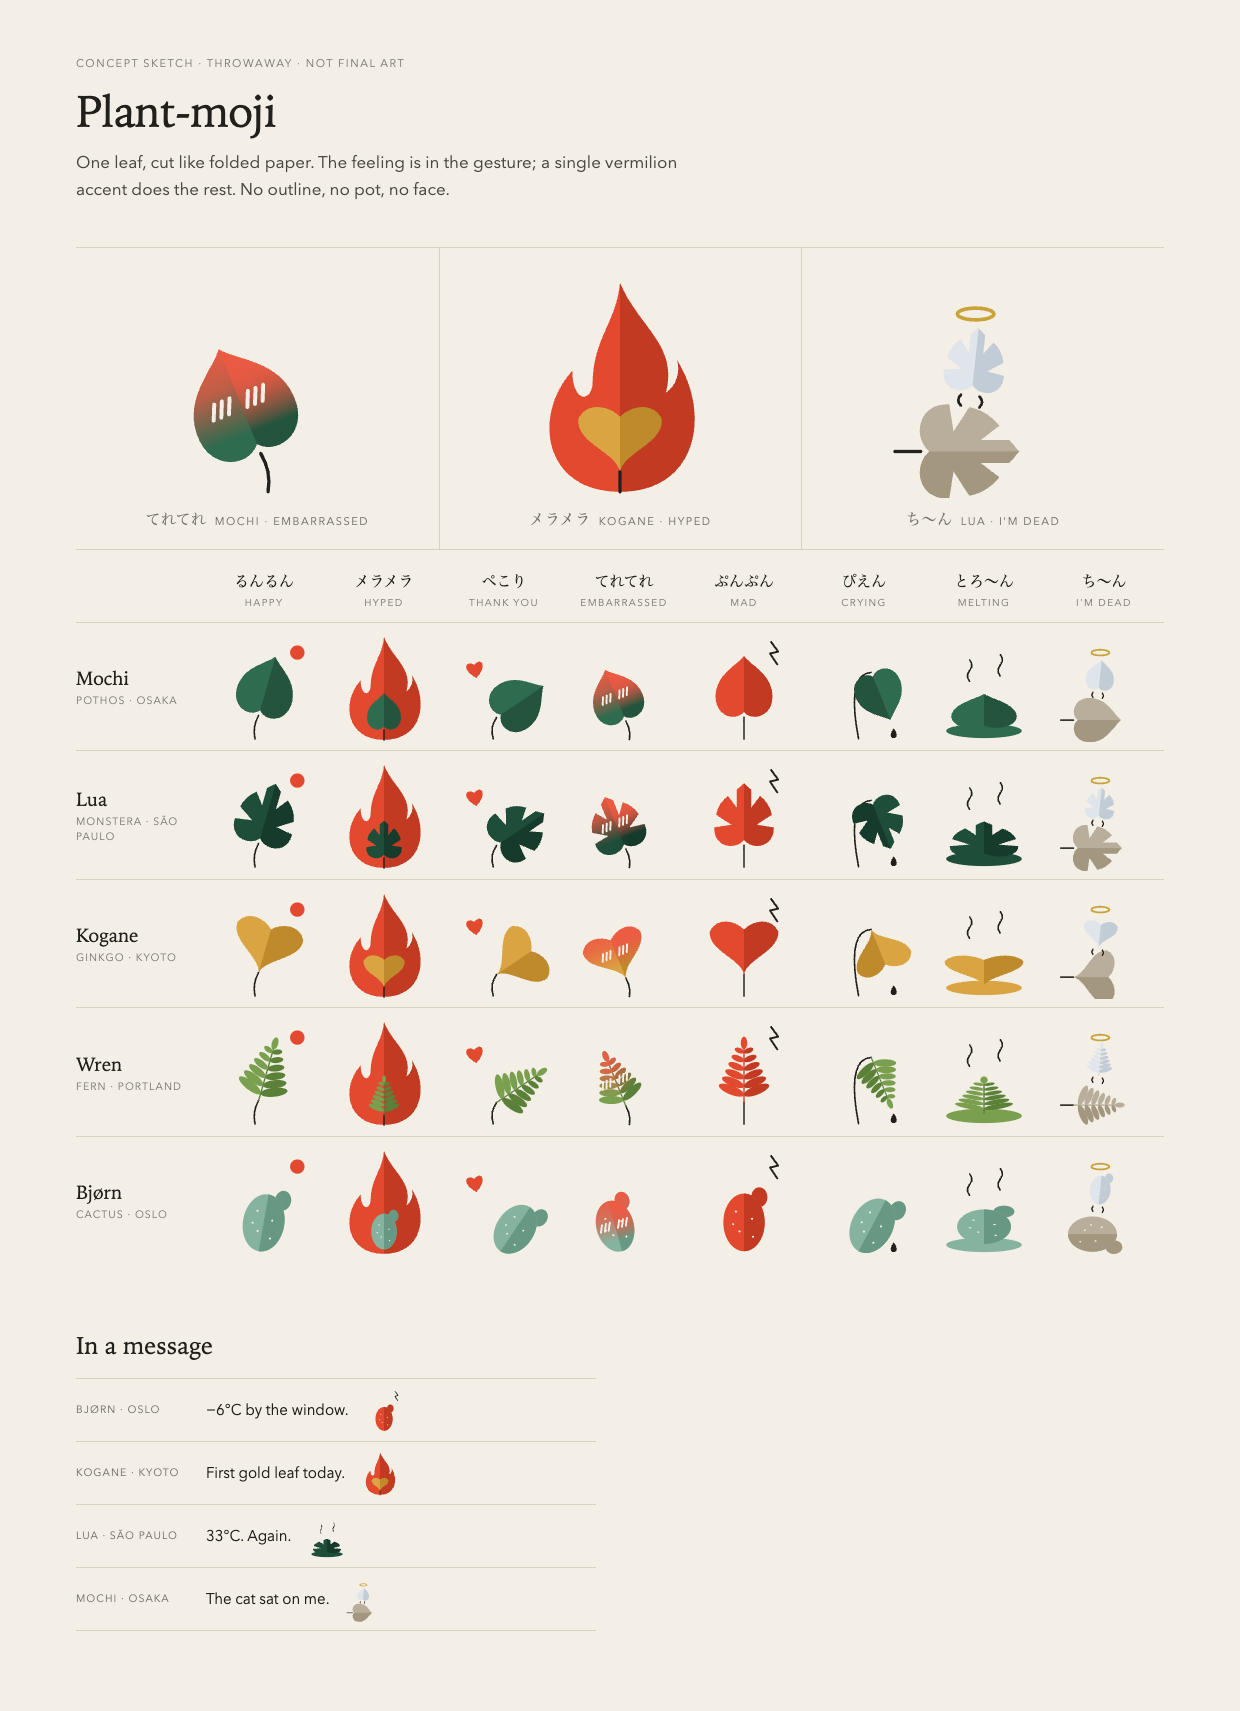
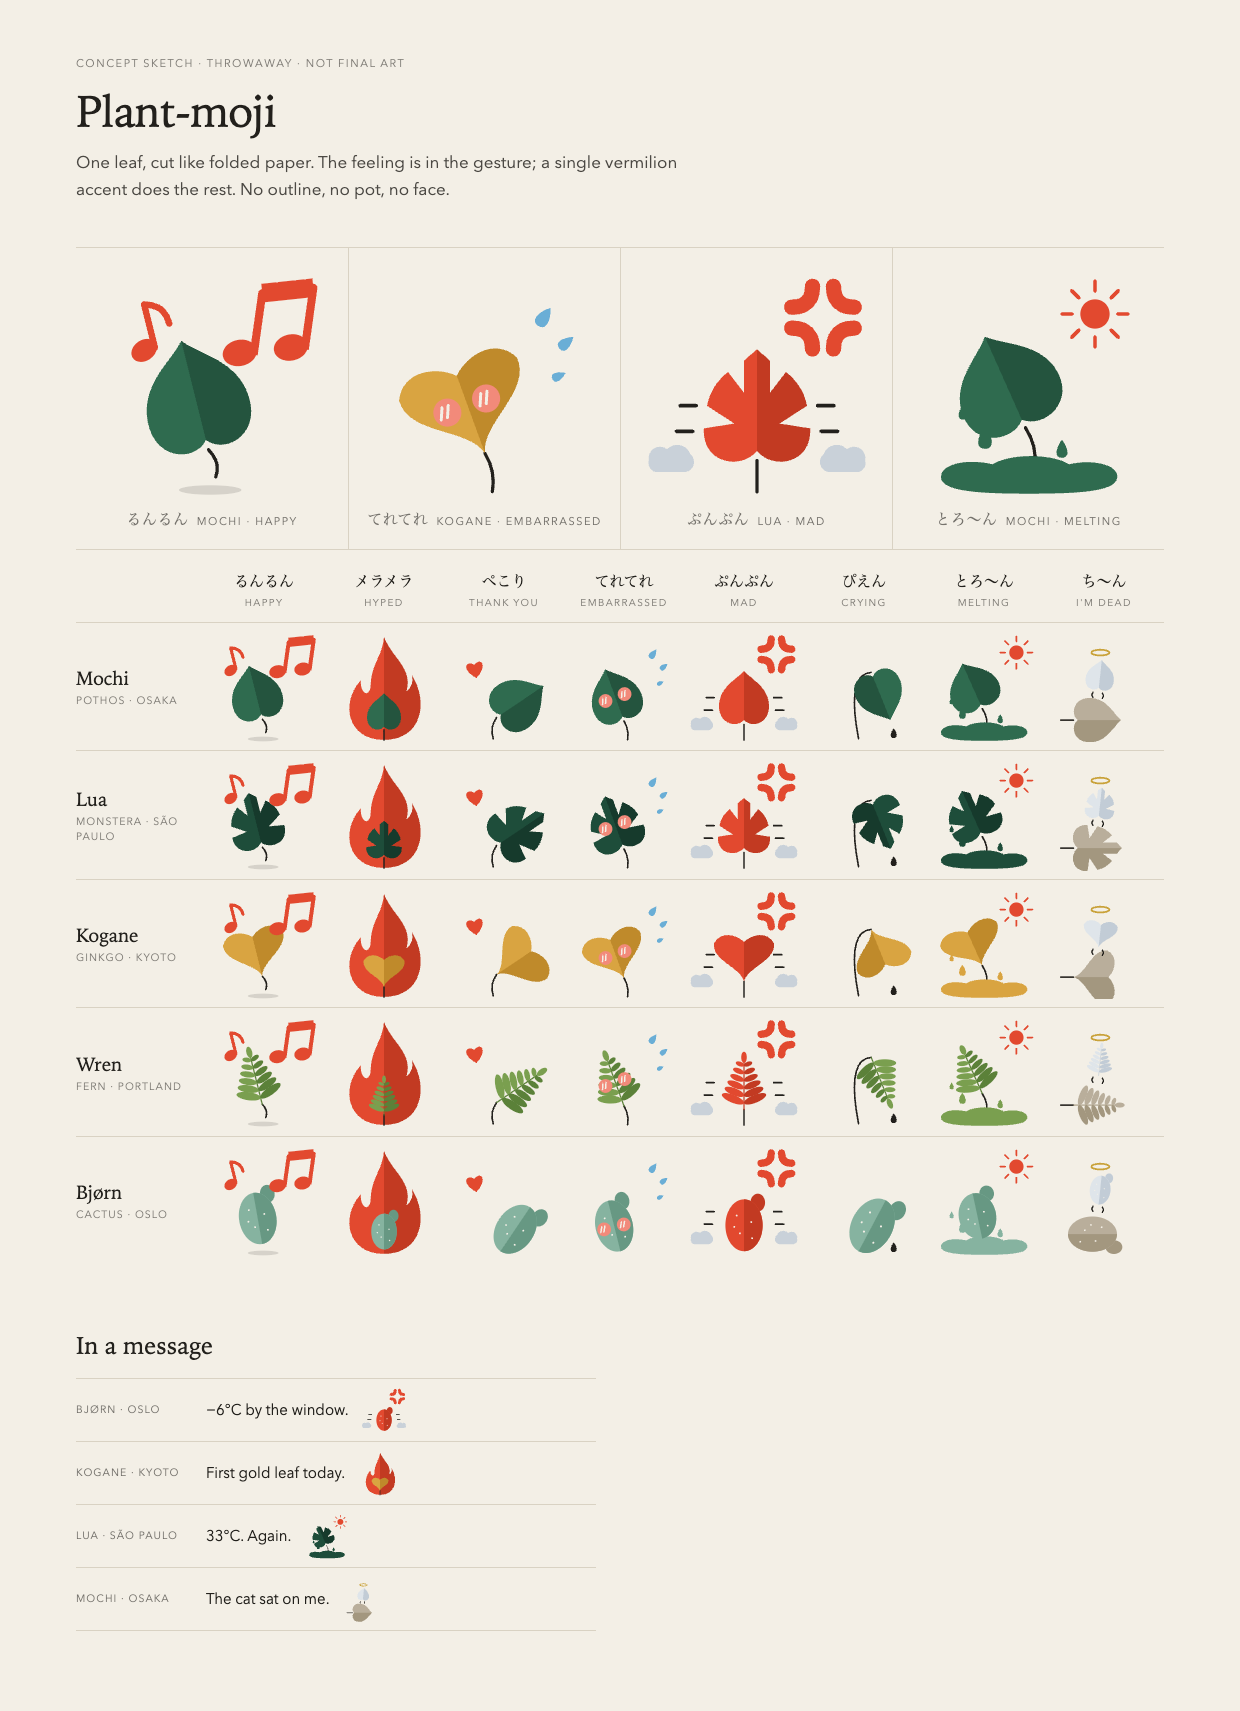
feat(mockups): redraw happy, embarrassed, mad and melting moji
Happy hums with music notes, embarrassed has pink cheeks and flying
sweat, mad gets the anger mark with huffs, and melting drips into a
puddle under a hot sun.

Claude-Session: https://claude.ai/code/session_018BJkmKwSHGXgfyQunbc3B2

diff --git a/mockups/plant-moji/plant-moji-leaf.html b/mockups/plant-moji/plant-moji-leaf.html
@@ -14,7 +14,7 @@
   h1 { font-family:"Iowan Old Style", "Hiragino Mincho ProN", Georgia, serif; font-weight:400; font-size:44px; margin:10px 0 8px; letter-spacing:-.01em; }
   h2 { font-family:"Iowan Old Style", "Hiragino Mincho ProN", Georgia, serif; font-weight:400; font-size:24px; margin:64px 0 6px; }
   p.lead { font-size:17px; margin:0; max-width:620px; line-height:1.6; opacity:.8; }
-  .hero { display:grid; grid-template-columns:repeat(3,1fr); gap:0; margin:44px 0 20px; border-top:1px solid var(--line); border-bottom:1px solid var(--line); }
+  .hero { display:grid; grid-template-columns:repeat(4,1fr); gap:0; margin:44px 0 20px; border-top:1px solid var(--line); border-bottom:1px solid var(--line); }
   .hero > div { padding:22px 0 18px; text-align:center; }
   .hero > div + div { border-left:1px solid var(--line); }
   .hero svg { width:220px; height:auto; }
@@ -76,39 +76,48 @@ const rays = (cx, cy, r1, r2, from, to, step) => { let d = '';
   for (let a = from; a <= to; a += step) { const r = a * Math.PI / 180;
     d += `M${(cx + r1 * Math.cos(r)).toFixed(1)} ${(cy + r1 * Math.sin(r)).toFixed(1)} L${(cx + r2 * Math.cos(r)).toFixed(1)} ${(cy + r2 * Math.sin(r)).toFixed(1)} `; }
   return hair(d, ACC, 2); };
-const sun = `<circle cx="97" cy="24" r="8" fill="${ACC}"/>`;
+const sun = `<circle cx="96" cy="24" r="8" fill="${ACC}"/>` + rays(96, 24, 12.5, 18, 0, 315, 45);
+const beamed = (x, y, s, r) => `<g ${T(x, y, s, r)}><path d="M-5 8 V-12 L11 -16 V4" fill="none" stroke="${ACC}" stroke-width="2.6" stroke-linejoin="round"/><path d="M-5 -12 L11 -16" stroke="${ACC}" stroke-width="6"/>` +
+  `<ellipse cx="-9.5" cy="8" rx="5.5" ry="4.2" fill="${ACC}" transform="rotate(-20 -9.5 8)"/><ellipse cx="6.5" cy="4" rx="5.5" ry="4.2" fill="${ACC}" transform="rotate(-20 6.5 4)"/></g>`;
+const single = (x, y, s, r) => `<g ${T(x, y, s, r)}>${hair('M4.5 6 V-12 q8 2 8 10', ACC, 2.6)}<ellipse cx="0" cy="6" rx="5.5" ry="4.2" fill="${ACC}" transform="rotate(-20 0 6)"/></g>`;
+const shadow = `<ellipse cx="59" cy="120" rx="17" ry="2.6" fill="${INK}" opacity=".14"/>`;
+const anger = (x, y, s) => `<g ${T(x, y, s)}>${hair('M-9 -3 q6 0 6 -6 M3 -9 q0 6 6 6 M9 3 q-6 0 -6 6 M-3 9 q0 -6 -6 -6', ACC, 4.4)}</g>`;
+const puff = (x, y, f) => `<path transform="translate(${x} ${y}) scale(${1.25 * f} 1.25)" d="M0 0 a5 5 0 0 1 8 -5 a6 6 0 0 1 10 2 a4.5 4.5 0 0 1 -2 8 h-13 a4 4 0 0 1 -3 -5Z" fill="#c9d1d9"/>`;
+const tremble = hair('M27 74 h-9 M25 88 h-9 M93 74 h9 M95 88 h9', INK, 2);
+const water = (x, y, s, r) => `<path ${T(x, y, s, r)} d="M0 -11 C 8 0 8 9 0 9 C -8 9 -8 0 0 -11Z" fill="#6aaed6"/>`;
+const blushOn = `<circle cx="-13" cy="-31" r="8.5" fill="#f28a7a"/><circle cx="12" cy="-31" r="8.5" fill="#f28a7a"/>` +
+  hair('M-15 -35 l-3 7 M-11 -35 l-3 7 M10 -35 l-3 7 M14 -35 l-3 7', '#f3efe6', 1.8);
+const BLOB = 'M12 113 C 12 105 28 103 40 106 C 50 100 72 100 82 106 C 94 103 110 106 108 114 C 106 121 86 122 60 122 C 34 122 12 121 12 113Z';
 const heart = (x, y, s) => `<path ${T(x, y, s, -10)} d="M0 8 C -15 -3 -8 -14 0 -6 C 8 -14 15 -3 0 8Z" fill="${ACC}"/>`;
 const dropD = 'M0 -11 C 8 0 8 9 0 9 C -8 9 -8 0 0 -11Z';
 const dropInk = (x, y, s) => `<path ${T(x, y, s)} d="${dropD}" fill="${INK}"/>`;
-const dropLine = (x, y, s) => `<g ${T(x, y, s, 14)}>${hair(dropD, INK, 2.4)}</g>`;
-const bolt = hair('M90 12 l8 11 l-9 2 l8 12', INK, 2.2);
-const heat = (x, y) => `<g transform="translate(${x} ${y})">${hair('M0 0 q-5 -6 0 -12 q5 -6 0 -12')}</g>`;
 const FLAME = 'M60 121 C 18 121 12 79 34 55 C 34 71 43 73 45 63 C 45 37 58 29 60 7 C 70 31 92 41 85 67 C 91 63 93 55 91 49 C 110 79 102 121 60 121Z';
 const flame = `<path d="${FLAME}" fill="#e2492f"/><path d="${FLAME}" fill="#c23a22" clip-path="url(#fh)"/>`;
-const cheeks = hair('M-15 -38 l-4 9 M-10 -38 l-4 9 M-5 -38 l-4 9 M7 -38 l-4 9 M12 -38 l-4 9 M17 -38 l-4 9', '#f3efe6', 2.4);
 // the leaf's own pale ghost rising from the body, with a halo
 const spirit = shape => `<g ${T(54, 66, .5, 6)}>${SHAPES[shape]('#dfe5ea', '#c2ccd6')}</g>` +
   `<ellipse cx="56" cy="24" rx="10" ry="3.2" fill="none" stroke="#c9a23a" stroke-width="2"/>` + hair('M48 68 q-3 3 0 6 M58 69 q3 3 0 6', INK, 1.5);
 
 const RED = ['#e2492f', '#c23a22'], DUST = ['#b9ae9b', '#a3977f'];
 const POSE = {
-  happy:  { ax: 54, ay: 94, rot: 16, stalk: 'M50 120 Q47 106 54 94', front: sun, rigid: { rot: 10 } },
+  happy:  { ax: 58, ay: 98, rot: -14, sc: .9, stalk: 'M62 113 Q65 105 58 98', back: shadow, front: beamed(93, 34, 1.7, 8) + single(21, 36, 1.35, -14), rigid: { rot: -10, ay: 110 } },
   hyped:  { ax: 60, ay: 110, sc: .6, rot: 0, stalk: 'M60 121 V110', back: flame, front: '', rigid: { sc: .62, ay: 116 } },
   thanks: { ax: 52, ay: 96, rot: 56, sc: .92, stalk: 'M48 120 Q44 106 52 96', front: heart(28, 44, 1.05), rigid: { rot: 34, ax: 56 } },
-  shy:    { ax: 62, ay: 100, rot: -22, sc: .9, stalk: 'M66 121 Q68 110 62 100', flush: true, inner: cheeks, front: '', rigid: { rot: -16, ax: 58 } },
-  mad:    { ax: 60, ay: 96, rot: 0, tone: RED, stalk: 'M60 120 V96', front: bolt, rigid: {} },
+  shy:    { ax: 60, ay: 100, rot: -20, sc: .9, stalk: 'M64 121 Q66 110 60 100', inner: blushOn, front: water(92, 26, .6, 35) + water(104, 40, .5, 50) + water(100, 58, .4, 65), rigid: { rot: -14, ax: 56 } },
+  mad:    { ax: 60, ay: 104, rot: 0, sc: .88, tone: RED, stalk: 'M60 121 V104', front: tremble + puff(1, 104, 1) + puff(119, 104, -1) + anger(96, 26, 1.9), rigid: { sc: .9 } },
   sad:    { ax: 68, ay: 46, rot: 158, sc: .84, stalk: 'M54 120 Q40 48 68 46', front: dropInk(93, 114, .55), rigid: { rot: 28, ax: 54, sc: 1 } },
-  melt:   { ax: 60, ay: 108, rot: 0, sc: 1.15, sy: .56, pool: true, front: heat(44, 56) + heat(78, 50), rigid: { sc: 1.3, sy: .6, ay: 110 } },
+  melt:   { ax: 58, ay: 86, rot: -24, sc: .9, sy: .8, melt: true, stalk: 'M62 112 Q66 98 58 86', front: sun, rigid: { ay: 104, rot: -12 } },
   dead:   { ax: 26, ay: 99, rot: 90, sc: .78, tone: DUST, stalk: 'M12 99 H26', front: spirit, rigid: { ax: 20, ay: 99, sc: .85 } },
 };
 function moji(shape, tone, emo) {
   const rigid = shape === 'cactus';
   const p = rigid ? { ...POSE[emo], ay: 118, stalk: null, ...POSE[emo].rigid } : POSE[emo];
   const [a, b] = p.tone || tone, sc = p.sc || 1;
-  const pool = p.pool ? `<ellipse cx="60" cy="111" rx="42" ry="8" fill="${a}"/>` : '';
+  // melting: the base of the leaf dissolves into a puddle of its own colour, with drips running off
+  const fall = (x, y, s) => `<path ${T(x, y, s)} d="M0 -11 C 8 0 8 9 0 9 C -8 9 -8 0 0 -11Z" fill="${a}"/>`;
+  const pool = p.melt ? `<path d="${BLOB}" fill="${a}"/>${fall(36, 92, .62)}${fall(78, 98, .5)}${fall(24, 78, .4)}` : '';
   const stalk = p.stalk ? hair(p.stalk) : '';
   const front = typeof p.front === 'function' ? p.front(shape) : p.front;
-  return svg(`${p.back || ''}${pool}${stalk}<g ${T(p.ax, p.ay, sc, p.rot, p.sy || sc)}>${SHAPES[shape](a, b)}${p.flush ? SHAPES[shape]('url(#flush)', 'url(#flush)') : ''}${p.inner || ''}</g>${front}`);
+  return svg(`${p.back || ''}${stalk}${pool}<g ${T(p.ax, p.ay, sc, p.rot, p.sy || sc)}>${SHAPES[shape](a, b)}${p.inner || ''}</g>${front}`);
 }
 
 const EMO = [
@@ -124,7 +133,7 @@ const P = {
 };
 const m = (k, e) => moji(P[k][2], P[k][3], e);
 
-document.getElementById('hero').innerHTML = [['mochi', 'shy', 'てれてれ', 'Embarrassed'], ['kogane', 'hyped', 'メラメラ', 'Hyped'], ['lua', 'dead', 'ち〜ん', "I'm dead"]]
+document.getElementById('hero').innerHTML = [['mochi', 'happy', 'るんるん', 'Happy'], ['kogane', 'shy', 'てれてれ', 'Embarrassed'], ['lua', 'mad', 'ぷんぷん', 'Mad'], ['mochi', 'melt', 'とろ〜ん', 'Melting']]
   .map(([k, e, ja, en]) => `<div>${m(k, e)}<div class="cap"><b>${ja}</b>${P[k][0]} · ${en}</div></div>`).join('');
 
 let html = '<div></div>' + EMO.map(e => `<div class="head">${e[2]}<small>${e[1]}</small></div>`).join('');
